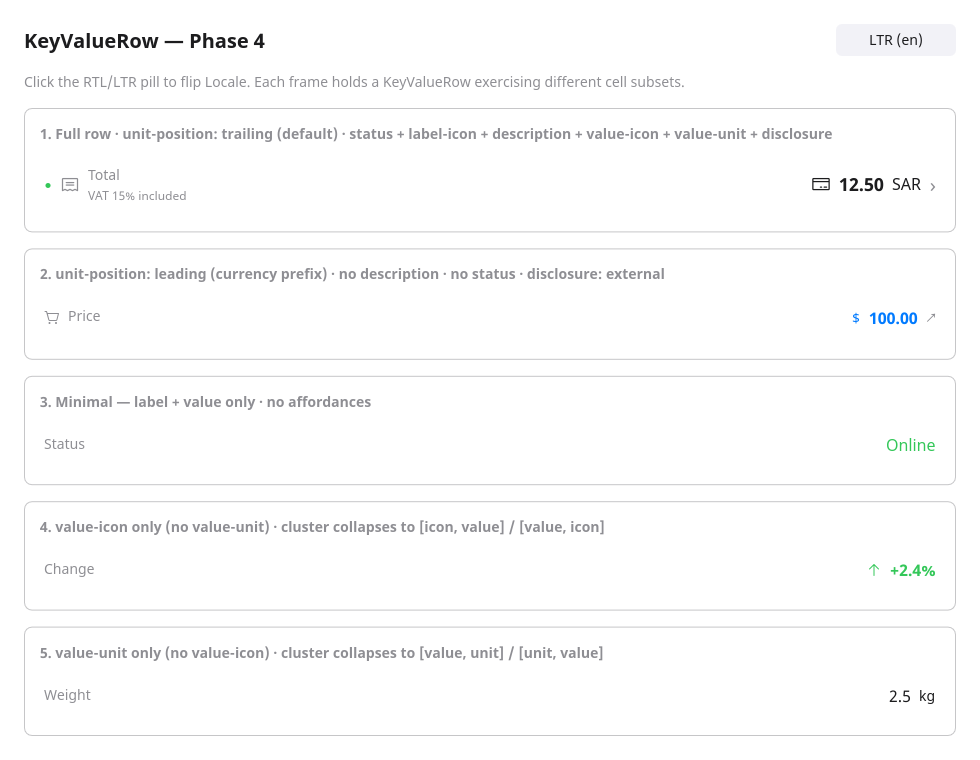
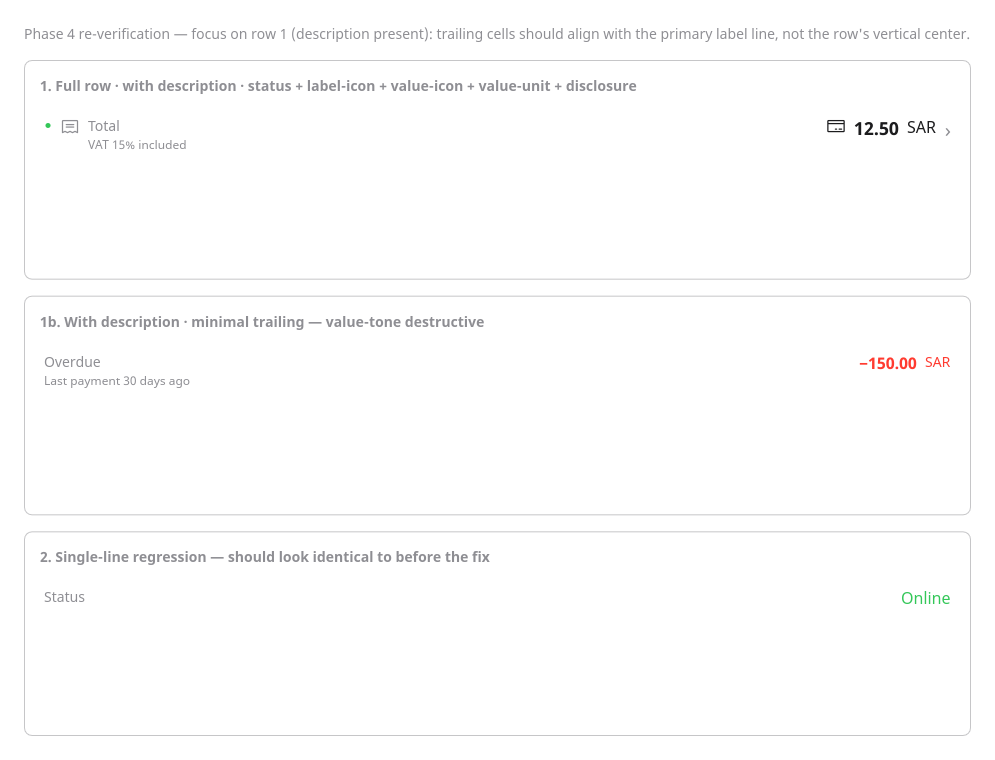
fix(abdu-slint-ui): KeyValueRow Phase 4 review — top-align trailing cells, pack SegmentColumn children
Review of the Phase 4 screenshots found that in description-present
rows, the trailing single-line cells (status dot, label-icon, value
cluster, disclosure) rendered at the row's vertical center — sitting
in the gap between the label and the description — instead of aligning
with the primary label line. Two changes resolve it:

1. components/key-value-row.slint — every outer Segment cell (12 in
   total, both branches) now sets `align-v: top`. For single-line rows
   the override is invisible (cell height equals content height); for
   description-present rows it anchors trailing content to the primary
   label line. Cells inside the label SegmentColumn keep their default
   center align-v — they fit their preferred height and the parent
   column owns vertical packing.

2. components/_segment-column.slint — the inner VerticalLayout's
   `alignment` switches from the implicit `stretch` default to
   explicit `start`. When the column is allocated more vertical space
   than its preferred-height (which happens routinely when the column
   is one cell among taller HorizontalLayout siblings), Slint's
   stretch default distributes slack BETWEEN children, drifting the
   secondary line away from the primary with a gap. `alignment: start`
   packs children top-down at their preferred heights and turns slack
   into trailing whitespace below the last child — matching the
   "stack" semantics consumers expect.
[…]

diff --git a/abdu-slint-ui/architecture/segment-pattern.md b/abdu-slint-ui/architecture/segment-pattern.md
@@ -249,11 +249,14 @@ component SegmentColumn inherits Rectangle {
     min-height:        root.show ? stack.min-height       : 0px;
 
     stack := VerticalLayout {
+        alignment: start;
         spacing: root.vstack-spacing;
         @children
     }
 }
 ```
+
+`alignment: start` is load-bearing: when a parent allocates the SegmentColumn more vertical space than its preferred-height (which routinely happens when the column is one cell among taller siblings in a HorizontalLayout), Slint's default `alignment: stretch` distributes the slack proportionally between children — pushing the secondary line away from the primary with an unwanted gap. `alignment: start` packs children top-down at their preferred heights and lets the slack become trailing whitespace below the last child. This matches the "stack" semantics consumers expect.
 
 ### Composition mechanism
 
